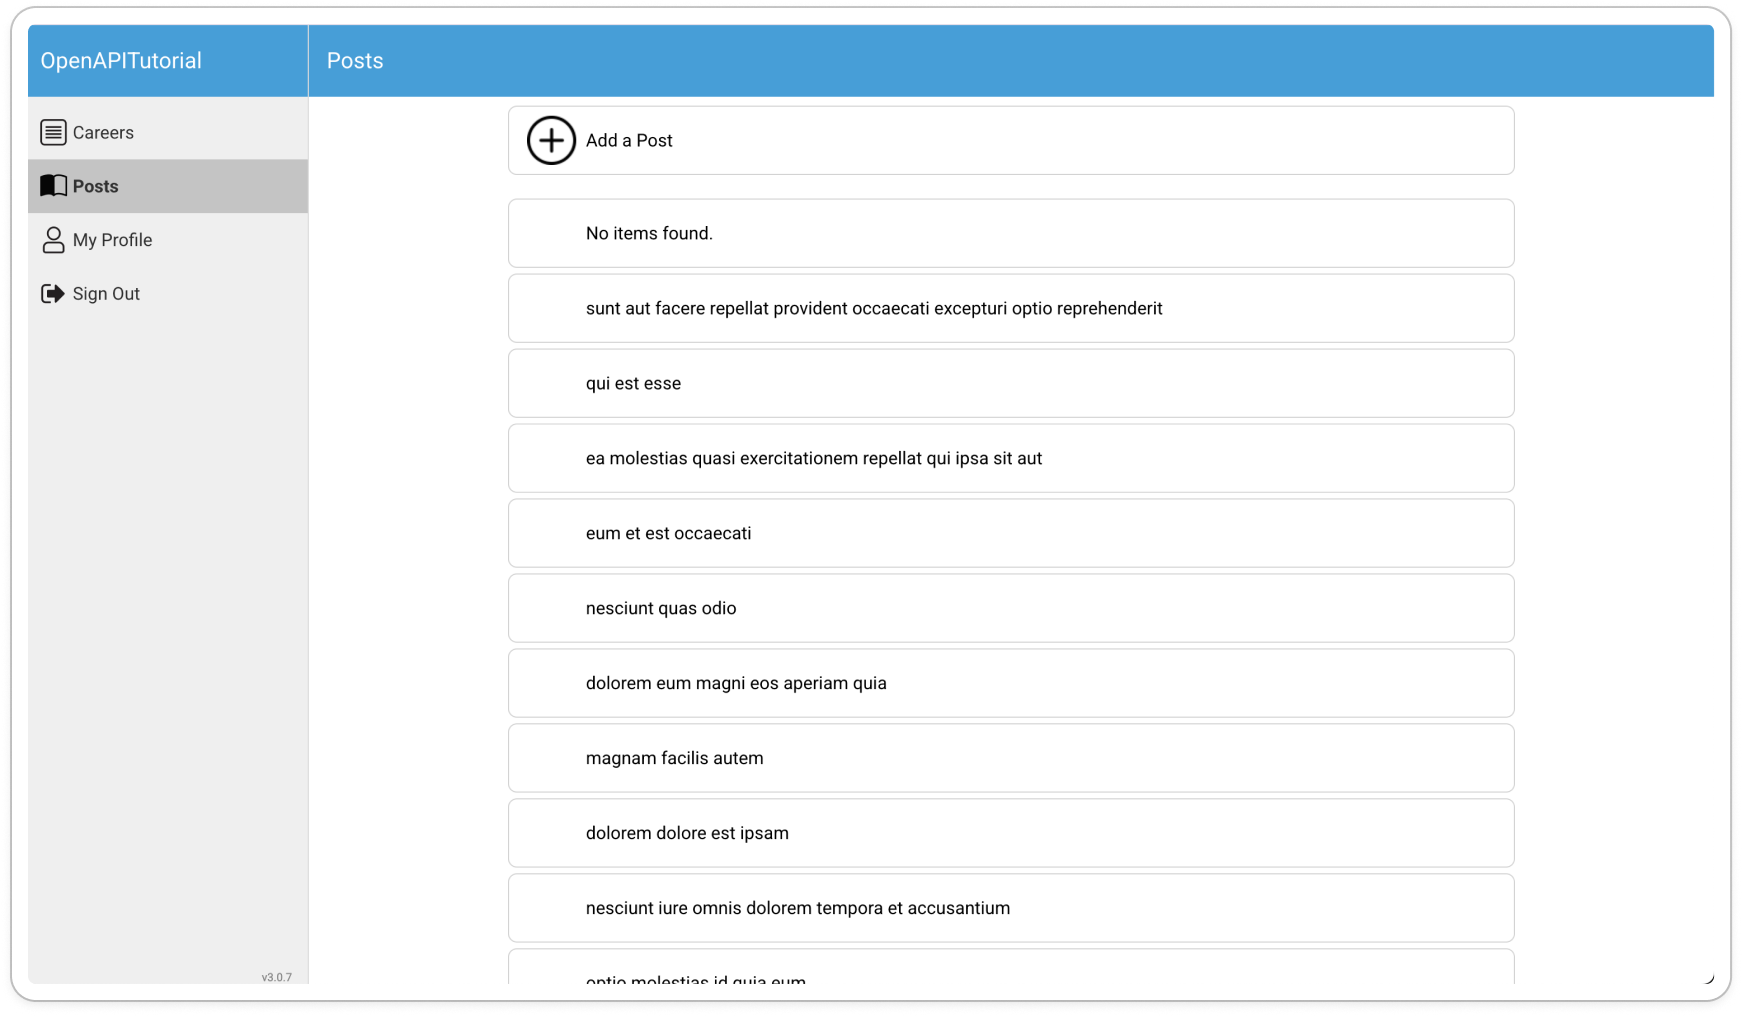
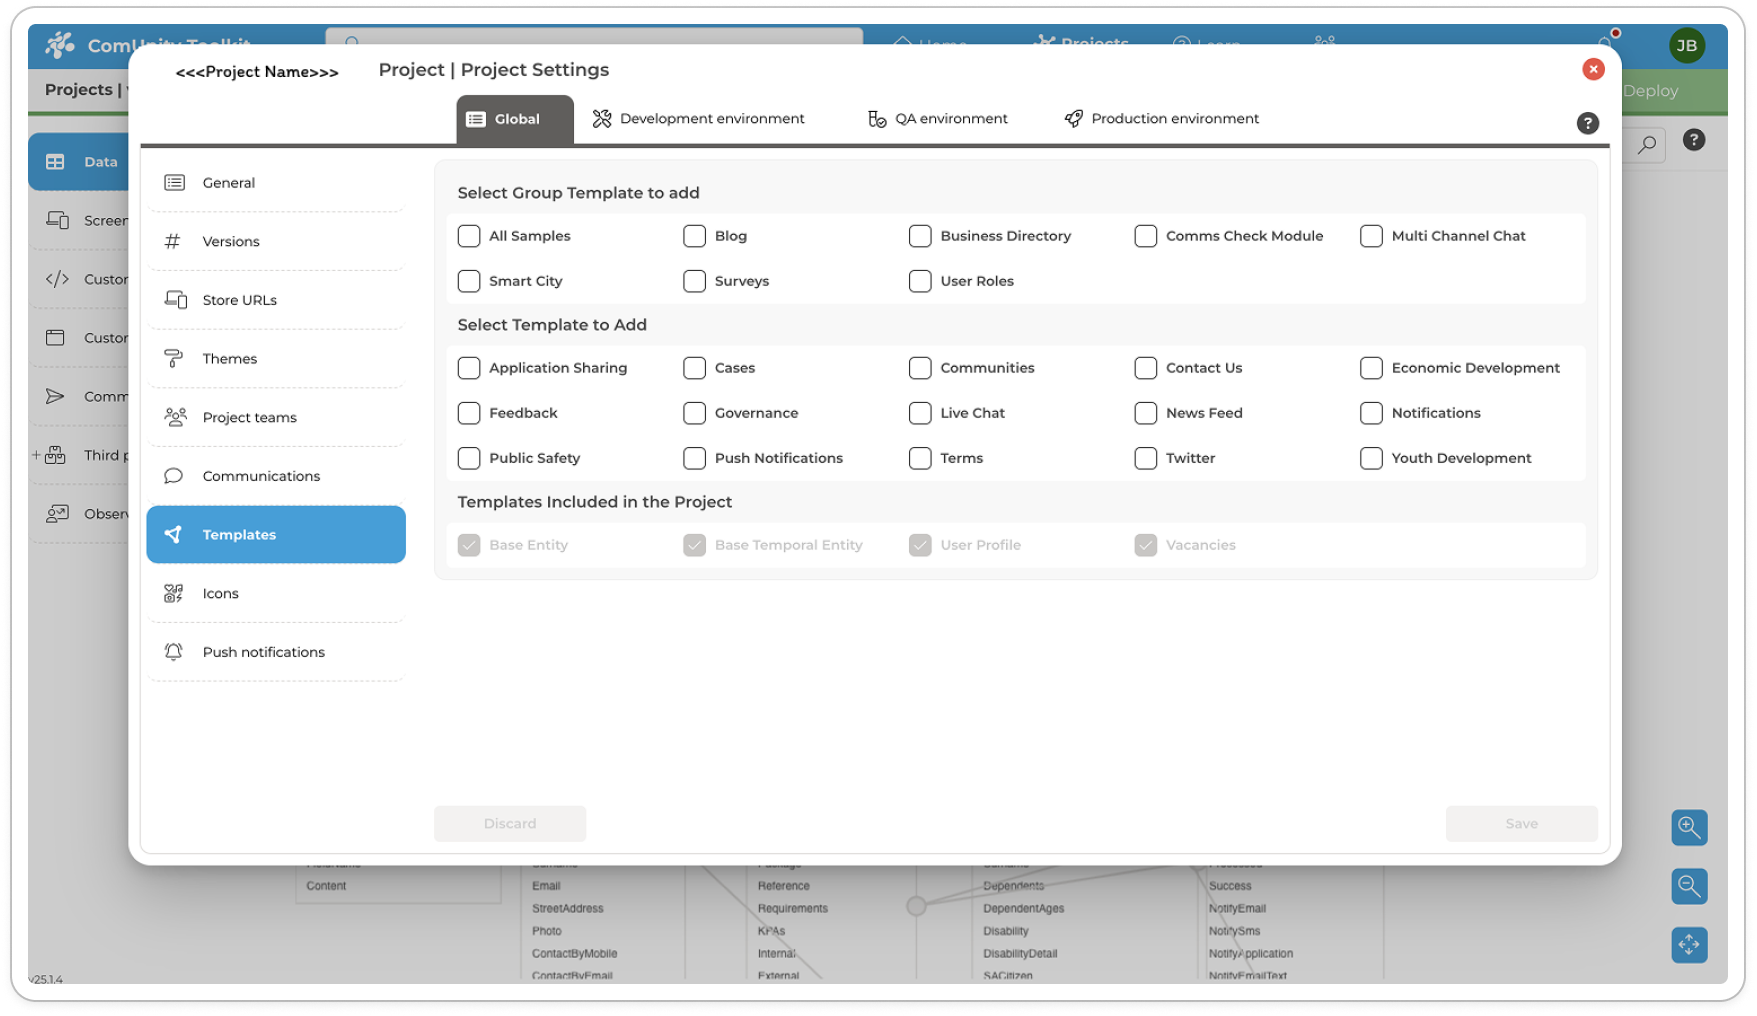
GITBOOK-34: website-34

diff --git a/toolkit-guides/web-sites-and-comunity-central.md b/toolkit-guides/web-sites-and-comunity-central.md
@@ -1,13 +1,26 @@
-# Web Site
+# Web sites & ComUnity Central
 
-The ComUnity Developer Toolkit allows you to host static front-end sites and dynamic web portals directly within your project. This feature is ideal for deploying lightweight user interfaces, custom administration tools, or rich, interactive user portals.
+{% hint style="info" %}
+The features described in this guide, including both[ Standard Web Sites ](web-sites-and-comunity-central.md#standard-web-sites)and [Community Central](web-sites-and-comunity-central.md#community-central), are available in Toolkit v25.2 and later.
+{% endhint %}
 
-This guide covers two types of web hosting options:
+The ComUnity Developer Toolkit provides a powerful low-code environment for rapidly building the core of your digital service. But what happens when your project has a unique requirement that goes beyond the standard components?
 
-* Web Sites: For hosting standard static sites (HTML, CSS, JavaScript).
-* Community Central: A specialised option for creating a modern, React-based central portal for your solution.
+This is where the **Web sites** and **ComUnity Central** features provides the essential leeway. It is the Toolkit's dedicated extensibility layer, serving as a powerful "escape hatch" that allows you to build any custom front-end experience you can imagine.
 
-## Standard Web Sites
+Whether you need to create a simple admin panel, a specific back-office tool, or a complete customer-facing portal, this feature allows you to build and embed a self-contained "site within a site." It gives you the ultimate flexibility to extend our core offering and meet any use-case-specific need.\
+
+
+To address these needs, the Toolkit provides two distinct features for creating custom front-ends:
+
+* [**Standard Web sites**](web-sites-and-comunity-central.md#standard-web-sites): For deploying self-contained static sites using HTML, CSS, and JavaScript. This feature is best suited for content-driven pages or simple tools that do not require a client-side build process.
+* [**Community Central**](web-sites-and-comunity-central.md#community-central): For deploying a complete React application. This feature is the designated solution for building complex, interactive Single Page Applications (SPAs) that can handle sophisticated UI, state management, and client-side calls to any third-party API.
+
+
+
+<figure><img src="../.gitbook/assets/image.png" alt=""><figcaption><p>Web sites in the ComUnity Developer Toolkit</p></figcaption></figure>
+
+## Standard Web sites
 
 The Web Sites feature allows you to deploy and manage static web content directly from your Toolkit project. It is the perfect choice for simple landing pages, documentation, or basic front-end interfaces that don't require a complex build process.
 
@@ -40,7 +53,7 @@ Every website you create is assigned a unique URL based on the following pattern
 
 Example URL: `https://toolkitv3.comunity.me/w/pokemon/games/index.html`
 
-### **Creating a Web Site**
+### **Creating a Web site**
 
 1. Open your project and navigate to the Web sites section.
 2. Scroll past the "Community Central" tile to the Web sites area.
@@ -48,7 +61,7 @@ Example URL: `https://toolkitv3.comunity.me/w/pokemon/games/index.html`
 4. In the dialog, enter a URL suffix (e.g., `my-app`, `tools`, `admin`).
 5. Click Create. Your website is now ready for you to upload content.
 
-### **Managing Your Web Site**
+### **Managing Your Web site**
 
 Once a website is created, you can click  **Edit** on its tile to access the file manager. From here you can:
 
@@ -57,9 +70,9 @@ Once a website is created, you can click  **Edit** on its tile to access the fil
 * Upload archive: Import a `.zip` file containing your entire site structure. This is the most efficient way to deploy a complete site.
 * Download site archive: Export the current site files as a `.zip` archive.
 
-> Note: Default File Requirement
->
-> The default entry point for any website must be an index.html file placed at the root level of your uploaded files. If this file is missing or in a sub-folder, the site will not load correctly.
+{% hint style="warning" %}
+The default entry point for any website must be an index.html file placed at the root level of your uploaded files. If this file is missing or in a sub-folder, the site will not load correctly.
+{% endhint %}
 
 ## Community Central
 
@@ -69,6 +82,7 @@ Community Central is a specialised web site project type within the ComUnity Dev
 
 While standard web sites are excellent for simple content, modern user portals demand complex UIs and streamlined development workflows. Community Central was built to meet these needs by providing:
 
+* **Go Beyond Toolkit APIs**: Overcome backend limitations. Because Community Central is a complete React application, it can call _any_ remote API, not just those provided by the Toolkit. This allows you to integrate third-party services (e.g., Stripe for payments, Google Maps for location data, or any other REST API) directly into your user-facing portal, giving you limitless integration possibilities.
 * **Accelerated Setup**: Get a complete, build-ready React application with a single click, saving you from complex manual configuration.
 * A "Golden Path" for Development: Start with a project scaffold that follows industry best practices, ensuring a solid, maintainable foundation.
 * Streamlined Workflow: Easily download the project to work in a rich IDE like VS Code, then deploy your production build back to the Toolkit with a simple archive upload.
@@ -79,12 +93,9 @@ While standard web sites are excellent for simple content, modern user portals d
 * Customer Self-Service Portal: A full-featured portal for users to log in, manage their accounts, and view data.
 * Interactive Data Dashboard: A dynamic Single Page Application (SPA) that presents data from your project's APIs with interactive charts and tables.
 * Partner or Vendor Platform: A central hub for third-party partners to onboard and interact with your solution.
-* The Primary UI for Your Solution: Build the complete, primary user-facing application for your entire project.
-
-&#x20;React-based app with project scaffolding and local development capabilities.
 
 {% hint style="warning" %}
-> You can only create one Community Central site per project. If your solution requires multiple web portals, use the standard Web Site feature for any additional sites.
+You can only create one Community Central site per project. If your solution requires multiple web portals, use the standard Web Site feature for any additional sites.
 {% endhint %}
 
 **Key Features**
@@ -106,11 +117,11 @@ While standard web sites are excellent for simple content, modern user portals d
    * Click Open web site to preview your new portal.
    * Click Edit to start managing your project files.
 
-### **Managing Your  ComUnity Central Web Site**
+### **Managing Your  ComUnity Central Web site**
 
 You have two primary ways to manage and customise your ComUnity Central site: directly within the Toolkit for quick edits, or by downloading the project for advanced development.
 
-#### **Quick Edits of the ComUnity Central Web Site in the Toolkit**
+#### **Quick Edits of the ComUnity Central Web site in the Toolkit**
 
 For simple changes, click Edit on the Community Central tile. From the file manager, you can perform basic operations like Add file, Add folder, Upload archive, and Download site archive.
 
@@ -120,7 +131,31 @@ For major changes, work with the project on your local machine:
 
 1. In the file manager view, click Download project archive.
 2. Unzip the file and open the project folder in your preferred code editor (e.g., VS Code).
-3. Follow the instructions in the `README.md` file to install dependencies and run the local development server (e.g., `npm install`, then `npm run dev`).
+3.  Follow the instructions in the `README.md` file to install dependencies and run the local development server (e.g., `npm install`, then `npm run dev`).\
+
+
+    {% code title="Typical folder structure of a downloaded ComUnity Central project (excluding node_modules, .git, and build artifacts)." %}
+    ```
+    ├── index.html
+    ├── lib
+    |  └── comunity_central-0.0.1.tgz
+    ├── package-lock.json
+    ├── package.json
+    ├── public
+    |  └── favicon.ico
+    ├── readme.md
+    ├── src
+    |  ├── components
+    |  ├── config
+    |  ├── index.jsx
+    |  └── reducers
+    ├── structure.txt
+    └── vite.config.js
+
+    ```
+    {% endcode %}
+
+
 4. Make your code changes and test them locally.
 5. When ready, run the build command (e.g., `npm run build`) to generate a `build` or `dist` folder.
 6. Return to the Toolkit's file manager and use Upload archive to upload a `.zip` of the contents of your build folder. This deploys your changes.

diff --git a/toolkit-tutorials/apis/integrating-the-jsonplaceholder-posts-api-using-the-toolkits-openapi-feature.md b/toolkit-tutorials/apis/integrating-the-jsonplaceholder-posts-api-using-the-toolkits-openapi-feature.md
@@ -408,4 +408,4 @@ To configure the OpenAPI API in the ComUnity Developer Toolkit, follow these ste
 7.  Build and launch your project to view your posts in the application. Click **Add Post** to navigate to the **Add Post** screen, where you can fill out a form to create a new post. Click on any post in the list to be redirected to the **Post by ID** page, where you can view the post’s details.\
 
 
-    <figure><img src="../../.gitbook/assets/image (1) (1).png" alt=""><figcaption><p>Posts screen in the application</p></figcaption></figure>
+    <figure><img src="../../.gitbook/assets/image (1) (1) (1).png" alt=""><figcaption><p>Posts screen in the application</p></figcaption></figure>

diff --git a/getting-started/manage-your-project/samples.md b/getting-started/manage-your-project/samples.md
@@ -28,7 +28,7 @@ The platform supports the following types of  templates :
 
 ### **To add a** templates **to an existing project**
 
-<figure><img src="../../.gitbook/assets/image (1).png" alt=""><figcaption><p>Add a template to an existing project</p></figcaption></figure>
+<figure><img src="../../.gitbook/assets/image (1) (1).png" alt=""><figcaption><p>Add a template to an existing project</p></figcaption></figure>
 
 1. Go to **Project Settings** > **Templates** .
 2. All the templates  that are already included in your project will have their checkboxes ticked.

diff --git a/toolkit-guides/services/media-server.md b/toolkit-guides/services/media-server.md
@@ -127,7 +127,7 @@ To upload a media file:
 1.  Navigate to Project Settings > Media Server.\
 
 
-    <figure><img src="../../.gitbook/assets/image.png" alt=""><figcaption></figcaption></figure>
+    <figure><img src="../../.gitbook/assets/image (1).png" alt=""><figcaption></figcaption></figure>
 2. Select the appropriate environment tab (e.g., _Development environment_).
 3. Optionally enter an Upload path (subdirectory under /u/).
 4. Drag and drop a file or use the Select a file button.

diff --git a/SUMMARY.md b/SUMMARY.md
@@ -82,8 +82,7 @@
   * [APIs](toolkit-guides/third-party-services/apis.md)
 * [Services](toolkit-guides/services/README.md)
   * [Media Server](toolkit-guides/services/media-server.md)
-* [Web Site](toolkit-guides/web-site/README.md)
-  * [ComUnity Central Web Site](toolkit-guides/web-site/comunity-central-web-site.md)
+* [Web sites & ComUnity Central](toolkit-guides/web-sites-and-comunity-central.md)
 
 ## General Information
 
